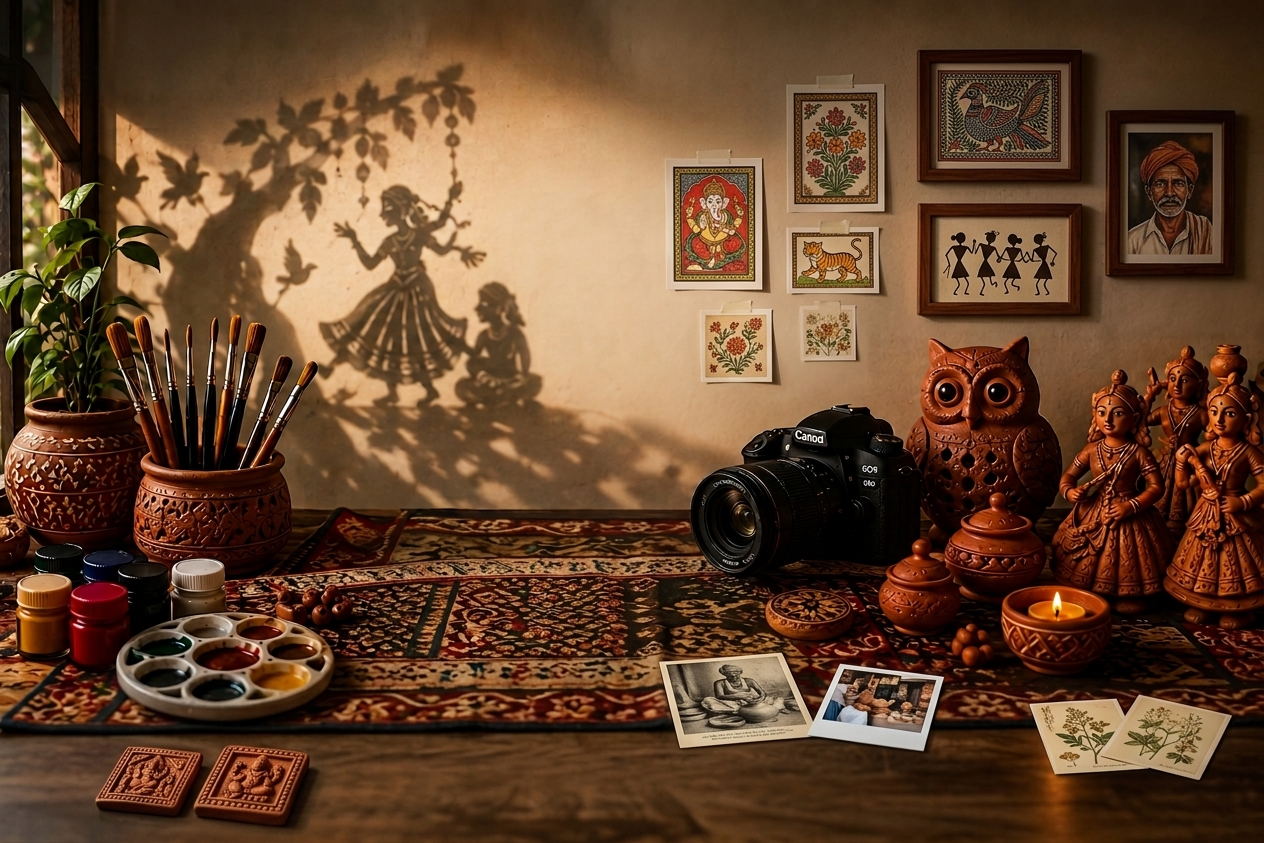
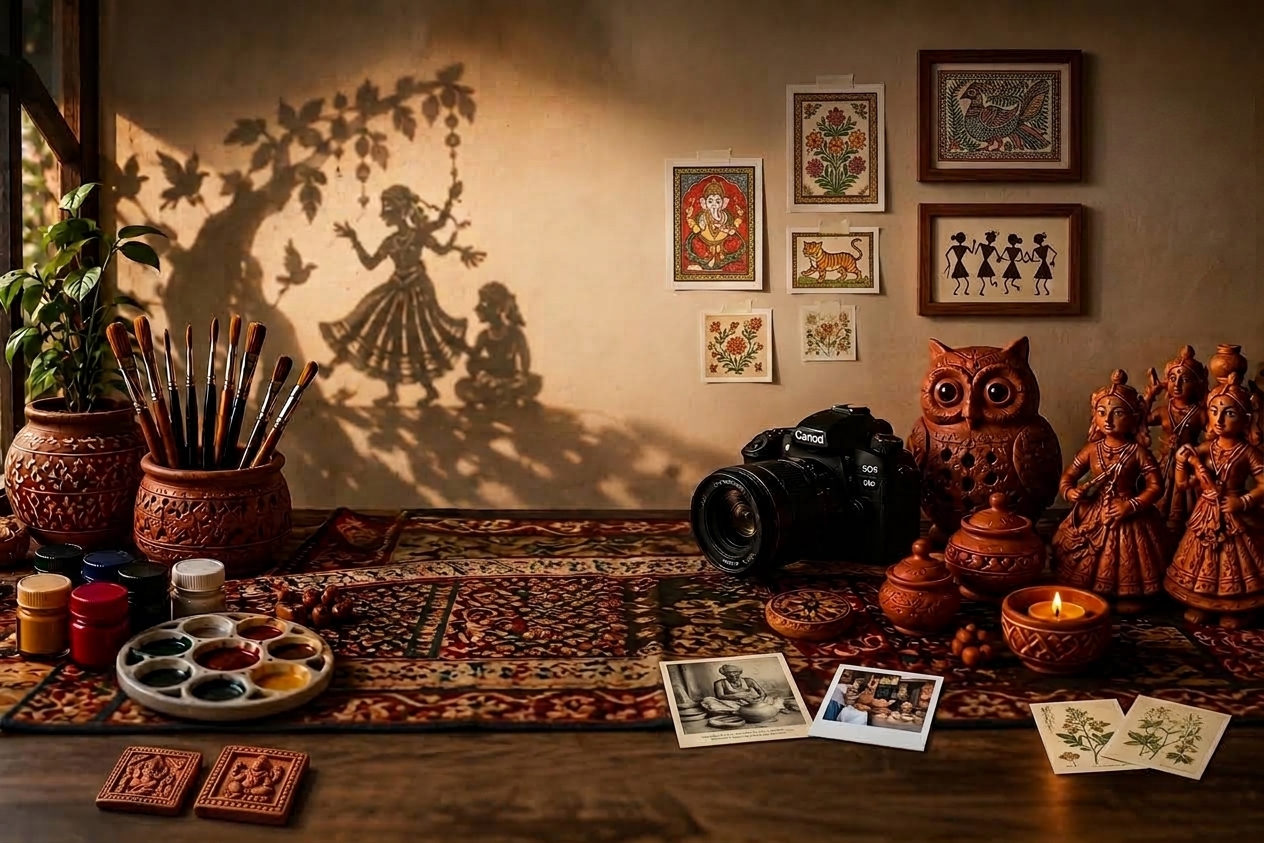
Improve homepage branding and visual design

diff --git a/react-front-end-app/src/pages/Home.css b/react-front-end-app/src/pages/Home.css
@@ -13,10 +13,10 @@
   text-align: center;
 
   background-image:
-  linear-gradient(
-    rgba(248, 245, 239, 0.40),
-    rgba(248, 245, 239, 0.40)
-  ),
+    linear-gradient(
+      rgba(248, 245, 239, 0.40),
+      rgba(248, 245, 239, 0.40)
+    ),
     url("../assets/art-craft-background.png");
 
   background-size: cover;
@@ -25,31 +25,44 @@
 }
 
 .home-hero-content {
-  max-width: 750px;
+  max-width: 950px;
+  width: 100%;
+  text-align: center;
+
+  position: relative;
+  left: 90px;
 }
 
 .home-label {
   color: #643204;
-  font-size: 14px;
+  font-size: 20px;
   font-weight: 700;
-  letter-spacing: 2px;
+  letter-spacing: 1px;
   margin-bottom: 15px;
+  text-align: right;
 }
 
 .home-hero h1 {
-  font-size: 48px;
-  color: #222222;
+  font-size: 45px;
+  color: #2b1a0e;
+  font-family: Georgia, "Times New Roman", serif;
+  font-style: italic;
+  font-weight: 700;
+  letter-spacing: 1px;
   margin-bottom: 20px;
+  text-shadow: 1px 1px 2px rgba(255, 255, 255, 0.6);
+  text-align: right;
 }
 
 .home-description {
   font-size: 20px;
-  line-height: 1.7;
-  color: #2b1a0e;
-  font-family: Georgia, "Times New Roman", serif;
+  line-height: 1;
+  color: #301a02;
+  font-family: "Trebuchet MS", Arial, sans-serif;
   font-style: italic;
-  font-weight: 500;
+  font-weight: 700;
   margin-bottom: 30px;
+  text-align: right;
 }
 
 .home-actions {
@@ -93,6 +106,7 @@
 .feature-grid {
   max-width: 1000px;
   margin: 0 auto;
+
   display: grid;
   grid-template-columns: repeat(3, 1fr);
   gap: 25px;
@@ -116,8 +130,17 @@
 }
 
 @media (max-width: 768px) {
+  .home-hero {
+    min-height: 450px;
+    padding: 40px 20px;
+  }
+
   .home-hero h1 {
     font-size: 36px;
+  }
+
+  .home-description {
+    font-size: 18px;
   }
 
   .feature-grid {

diff --git a/react-front-end-app/src/components/Header.css b/react-front-end-app/src/components/Header.css
@@ -1,20 +1,40 @@
 .header {
+  position: relative;
   background-color: #693f03;
-  border-bottom: 2px solid #ddd;
-  padding: 20px;
+  border-bottom: 2px solid #dddddd;
+  padding: 20px 20px;
+  min-height: 125px;
   text-align: center;
 }
 
+/* LOGO - LARGE AND ON THE LEFT SIDE */
+
+.header-logo {
+  position: absolute;
+  left: 35px;
+  top: 109%;
+  transform: translateY(-50%);
+
+  width: 365px;
+  height: 365px;
+  object-fit: contain;
+}
+
+/* TITLE */
+
 .header h1 {
-  margin-bottom: 10px;
+  margin: 0 0 15px;
   font-size: clamp(1.8rem, 4vw, 2.5rem);
   color: #ebe9e7;
 }
 
+/* NAVIGATION */
+
 .nav-links {
   display: flex;
-  justify-content: center;
-  gap: 20px;
+  justify-content: right;
+  align-items: right;
+  gap: 100px;
   flex-wrap: wrap;
 }
 
@@ -24,15 +44,50 @@
   text-decoration: none;
   font-weight: 600;
 }
+
+.nav-links a:hover {
+  text-decoration: underline;
+}
+
+/* CART */
+
 .cart-link {
   border: 1px solid #775832;
   border-radius: 6px;
   padding: 7px 12px !important;
-  text-decoration: none;
-  color: #693f03 !important;
+
   background-color: #ffffff;
+  color: #693f03 !important;
+
+  text-decoration: none !important;
 }
 
 .cart-link:hover {
   background-color: #f2f2f2;
+}
+
+/* MOBILE */
+
+@media (max-width: 768px) {
+  .header {
+    padding-top: 110px;
+    min-height: auto;
+  }
+
+  .header-logo {
+    left: 50%;
+    top: 10px;
+    transform: translateX(-50%);
+
+    width: 90px;
+    height: 90px;
+  }
+
+  .header h1 {
+    font-size: 30px;
+  }
+
+  .nav-links {
+    gap: 8px;
+  }
 }

diff --git a/react-front-end-app/src/components/Header.js b/react-front-end-app/src/components/Header.js
@@ -1,5 +1,6 @@
 import React, { useEffect, useState } from "react";
 import { Link } from "react-router-dom";
+import logo from "../assets/art-craft-logo.png";
 import "./Header.css";
 
 function Header() {
@@ -36,13 +37,10 @@ function Header() {
       }
     };
 
-    // Load count when Header first appears
     loadCartCount();
 
-    // Update count whenever the cart changes
     window.addEventListener("cartUpdated", loadCartCount);
 
-    // Clean up listener
     return () => {
       window.removeEventListener("cartUpdated", loadCartCount);
     };
@@ -50,12 +48,21 @@ function Header() {
 
   return (
     <header className="header">
+      <img
+        src={logo}
+        alt="Art and Craft Marketplace Logo"
+        className="header-logo"
+      />
+
       <h1>Art & Craft Marketplace</h1>
 
       <nav className="nav-links">
         <Link to="/">Home</Link>
+
         <Link to="/about">About</Link>
+
         <Link to="/upload">Upload</Link>
+
         <Link to="/checkout">Checkout</Link>
 
         <Link to="/cart" className="cart-link">

diff --git a/react-front-end-app/src/pages/Home.js b/react-front-end-app/src/pages/Home.js
@@ -2,6 +2,7 @@ import React from "react";
 import { Link } from "react-router-dom";
 import "./Home.css";
 
+
 function Home() {
   return (
     <div className="home-page">
